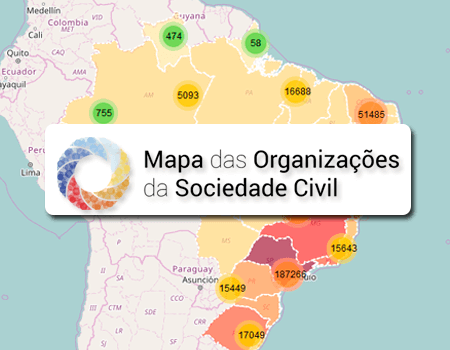
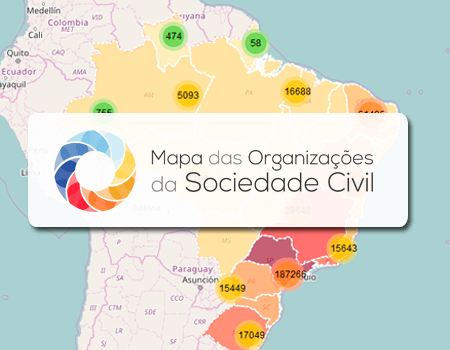
trocando as imagens do site e ajustando o contraste

diff --git a/js/components/Header.jsx b/js/components/Header.jsx
@@ -21,10 +21,9 @@ define(['react','rotas'], function(React) {
       return (
         <div>
           <a href="index.html" className="navbar-brand brand-master-style" contenteditable="true">
-            <img src="img/simbolo.png" className="brand-style"></img>
-            <span className="brand-text-style">{tituloLogo}</span>
+            <img src="img/logo.png" className="brand-style logoMapa"></img>
           </a>
-          <button type="button" className="navbar-toggle" data-toggle="collapse" data-target="#navbar-ex-collapse">
+          <button type="button" className="navbar-toggle micro" data-toggle="collapse" data-target="#navbar-ex-collapse">
             <span className="sr-only">Toggle navigation</span>
             {this.renderListItems()}
           </button>
@@ -255,7 +254,7 @@ define(['react','rotas'], function(React) {
         <div className="navbar navbar-default navbar-static-top">
           <div className="container">
             <div id="menu-mobile" className="navbar-header"><BotaoResponsivo/></div>
-            <div className="collapse navbar-collapse" id="navbar-ex-collapse"><Menu headerObject={headerObject}/></div>
+            <div className="collapse navbar-collapse menuHeader" id="navbar-ex-collapse"><Menu headerObject={headerObject}/></div>
           </div>
         </div>
         <div className="modal fade" id="modalLogin" tabindex="-1" role="dialog" aria-labelledby="myModalLabel">

diff --git a/css/base.css b/css/base.css
@@ -4129,6 +4129,12 @@ select[multiple].input-group-sm > .input-group-btn > .btn {
     max-height: 200px;
   }
 }
+
+@media (max-device-width: 357px)  {
+  .micro{
+    margin-top: -10px !important;
+  }
+}
 .container > .navbar-header,
 .container-fluid > .navbar-header,
 .container > .navbar-collapse,
@@ -4255,6 +4261,9 @@ select[multiple].input-group-sm > .input-group-btn > .btn {
   .navbar-nav .open .dropdown-menu > li > a:hover,
   .navbar-nav .open .dropdown-menu > li > a:focus {
     background-image: none;
+  }
+  .navbar-static-top{
+    height: 0px !important;
   }
 }
 @media (min-width: 768px) {
@@ -6452,6 +6461,9 @@ button.close {
 
     .col-3-dados, .col-9-dados {
         width: 100% !important;
+    }
+    .logoMapa{
+      height: 80px !important;
     }
 }
 @media (min-width: 768px) and (max-width: 991px) {

diff --git a/css/styles.css b/css/styles.css
@@ -1029,3 +1029,13 @@ select{
   background-color: #c9302c !important;
   border-color: #ac2925 !important;
 }
+.logoMapa{
+  height: 100px;
+  margin-top: -20px;
+}
+.navbar-static-top{
+  height: 110px;
+}
+.menuHeader{
+    margin-top: 40px !important;
+}

diff --git a/js/util/contraste.js b/js/util/contraste.js
@@ -143,7 +143,8 @@ function ativarCSSContraste() {
         $(this).css("color", "#ffffff");
     }
   });
-
+  
+  $( ".logoMapa" ).attr({src: "img/logo_contraste.png"});
 
 }
 
